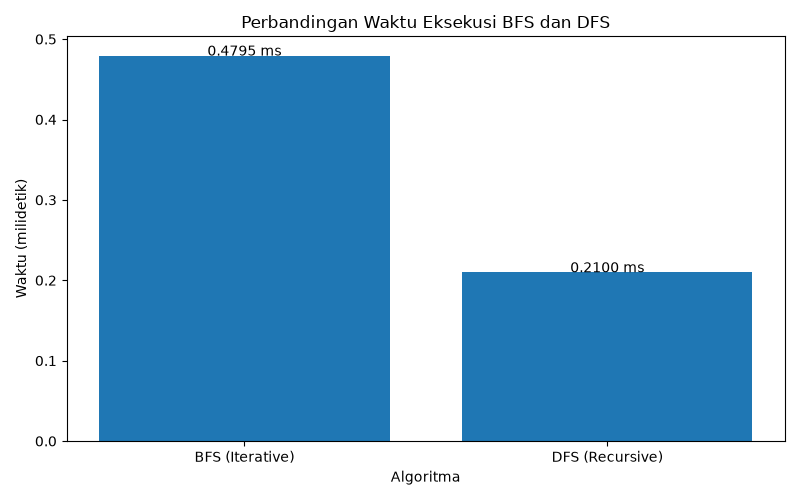
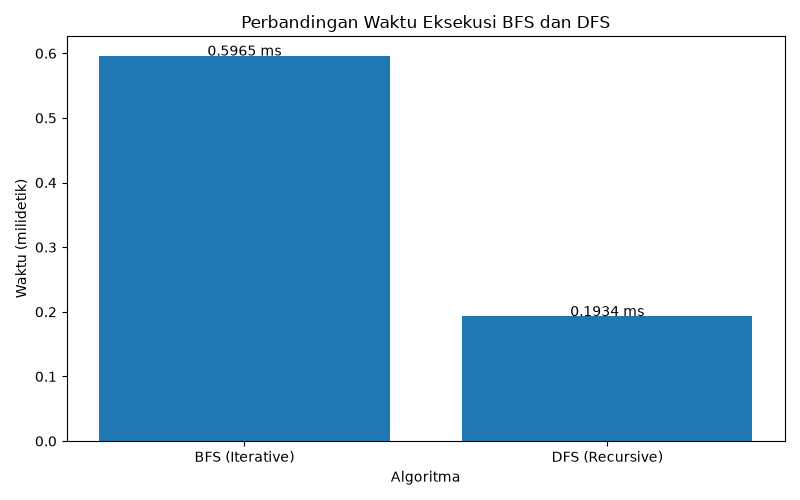
Berbaharui kode anggota_04

diff --git a/tests/test_recursive.py b/tests/test_recursive.py
@@ -1,36 +1,113 @@
-# ANGOTA_4:
+
+# ANGGOTA_4:
+# Pengujian Algoritma Recursive DFS
 
 import unittest
+from src.recursive import solve_recursive
+
+
+class MazeStub:
+    """Representasi maze sederhana untuk pengujian recursive."""
+
+    def __init__(self, graph, start, end):
+        self.graph = graph
+        self.start = start
+        self.end = end
+
+    def neighbors(self, position):
+        return self.graph.get(position, [])
+
 
 class TestRecursive(unittest.TestCase):
 
-    def test_recursive(self):
-        # Masukkan pengujian recursive di sini
-        self.assertTrue(True)
-        
-        """Pencarian jalur Maze secara rekursif menggunakan DFS."""
-def solve_recursive(maze):
-    """Mengembalikan jalur pertama yang ditemukan atau None."""
-    visited = set()
-    path = []
-    def visit(position):
-        if position == maze.end:
-            path.append(position)
-            return True
-        if position in visited:
-            return False
+    def test_path_found(self):
+        """Menguji ketika jalur menuju tujuan ditemukan."""
 
-        visited.add(position)
-        path.append(position)
-        for neighbor in maze.neighbors(position):
-            if neighbor not in visited and visit(neighbor):
-                return True
-                
-        path.pop()
-        return False
-    if visit(maze.start):
-        return tuple(path)
-    return None
+        maze = MazeStub(
+            {
+                "S": ["A"],
+                "A": ["E"],
+                "E": []
+            },
+            "S",
+            "E"
+        )
 
-    if __name__ == "__main__":
-        unittest.main()
+        result = solve_recursive(maze)
+
+        self.assertEqual(result, ("S", "A", "E"))
+
+    def test_no_path_found(self):
+        """Menguji ketika jalur menuju tujuan tidak tersedia."""
+
+        maze = MazeStub(
+            {
+                "S": ["A"],
+                "A": ["S"],
+                "E": []
+            },
+            "S",
+            "E"
+        )
+
+        result = solve_recursive(maze)
+
+        self.assertIsNone(result)
+
+    def test_backtracking(self):
+        """Menguji proses kembali ketika menemukan jalan buntu."""
+
+        maze = MazeStub(
+            {
+                "S": ["A", "B"],
+                "A": ["C"],
+                "C": [],
+                "B": ["E"],
+                "E": []
+            },
+            "S",
+            "E"
+        )
+
+        result = solve_recursive(maze)
+
+        self.assertEqual(result, ("S", "B", "E"))
+        self.assertNotIn("A", result)
+        self.assertNotIn("C", result)
+
+    def test_cycle_detection(self):
+        """Menguji agar pencarian tidak terjebak dalam siklus."""
+
+        maze = MazeStub(
+            {
+                "S": ["A"],
+                "A": ["B"],
+                "B": ["S", "C"],
+                "C": ["A"]
+            },
+            "S",
+            "E"
+        )
+
+        result = solve_recursive(maze)
+
+        self.assertIsNone(result)
+
+    def test_start_is_goal(self):
+        """Menguji ketika titik awal sama dengan tujuan."""
+
+        maze = MazeStub(
+            {
+                "S": []
+            },
+            "S",
+            "S"
+        )
+
+        result = solve_recursive(maze)
+
+        self.assertEqual(result, ("S",))
+
+
+if __name__ == "__main__":
+    unittest.main()
